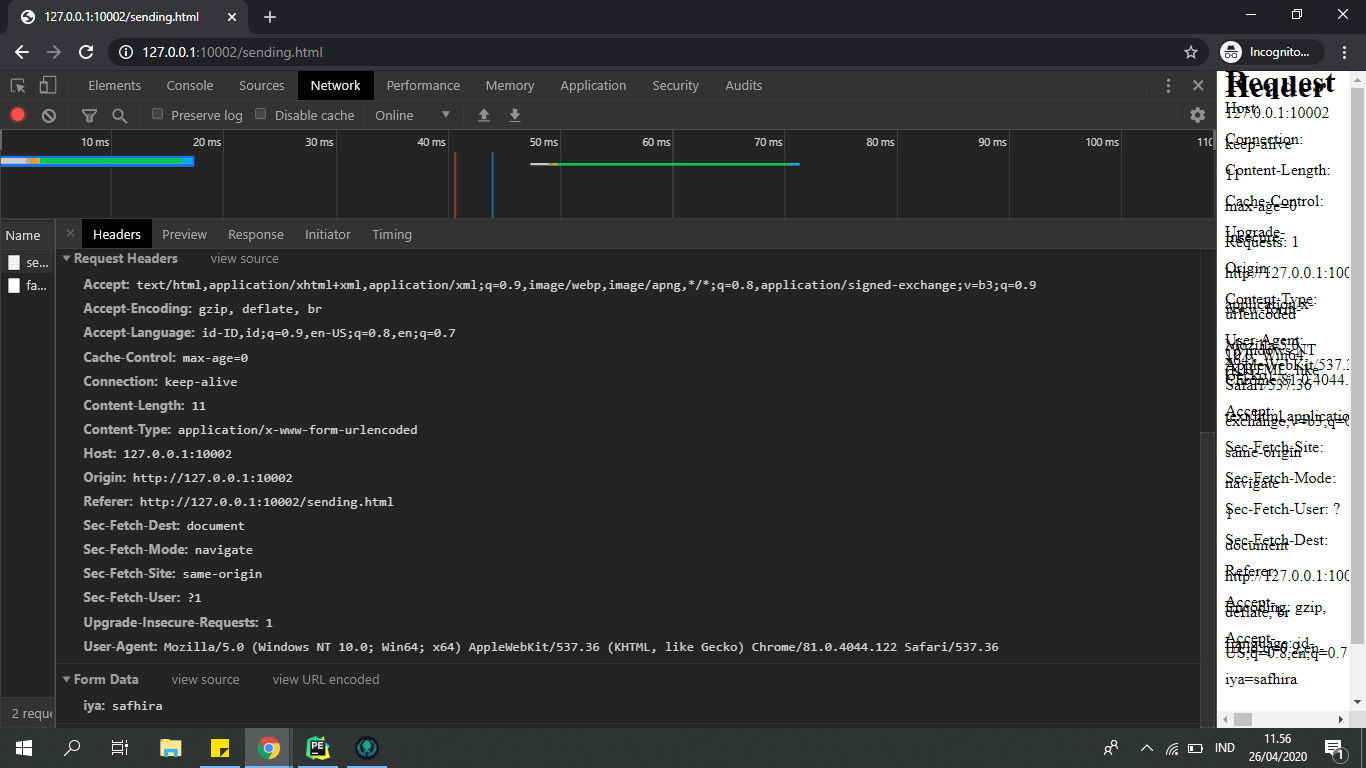
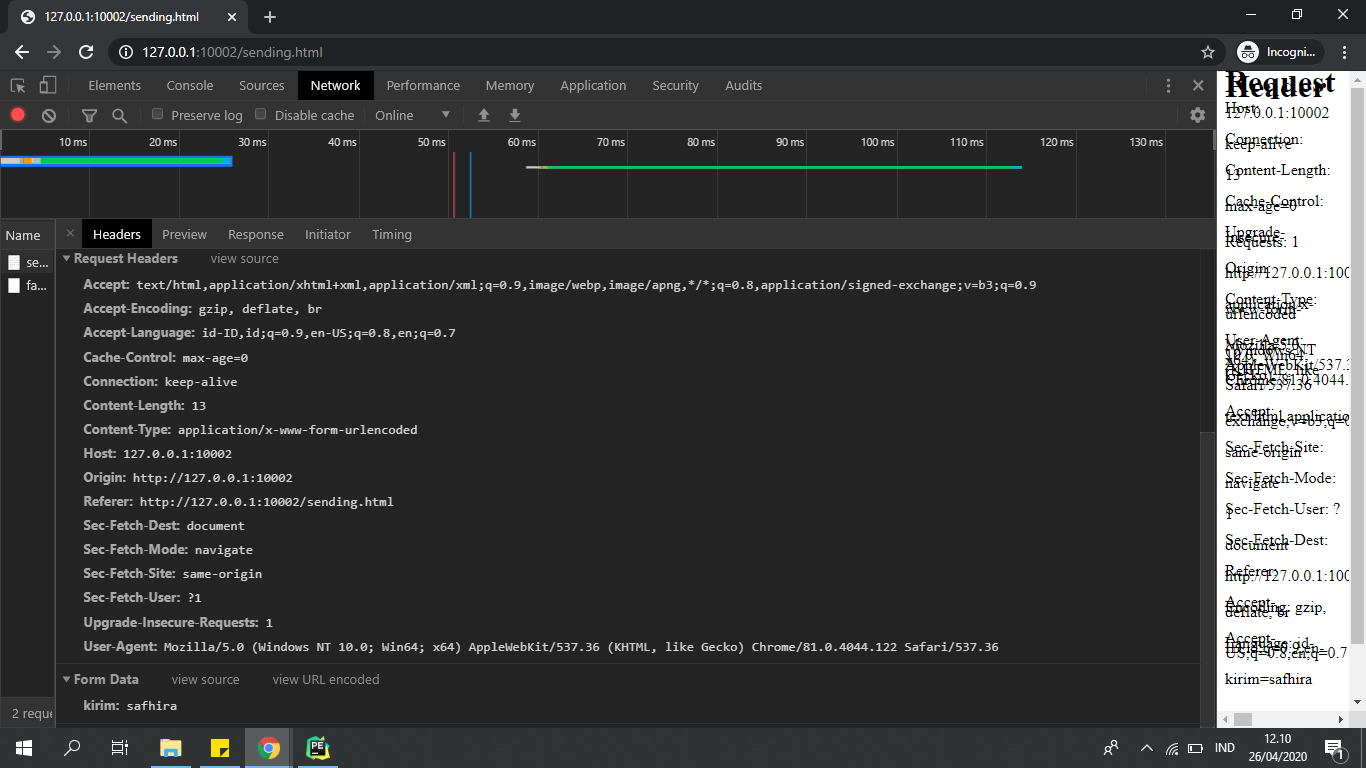
kirim

diff --git a/tugas8/sending.html b/tugas8/sending.html
@@ -1,4 +1,4 @@
 <form action = "" method="post">
-    <input type="text" name="iya">
+    <input type="text" name="kirim">
     <input type="submit" value="kirim">
 </form>
